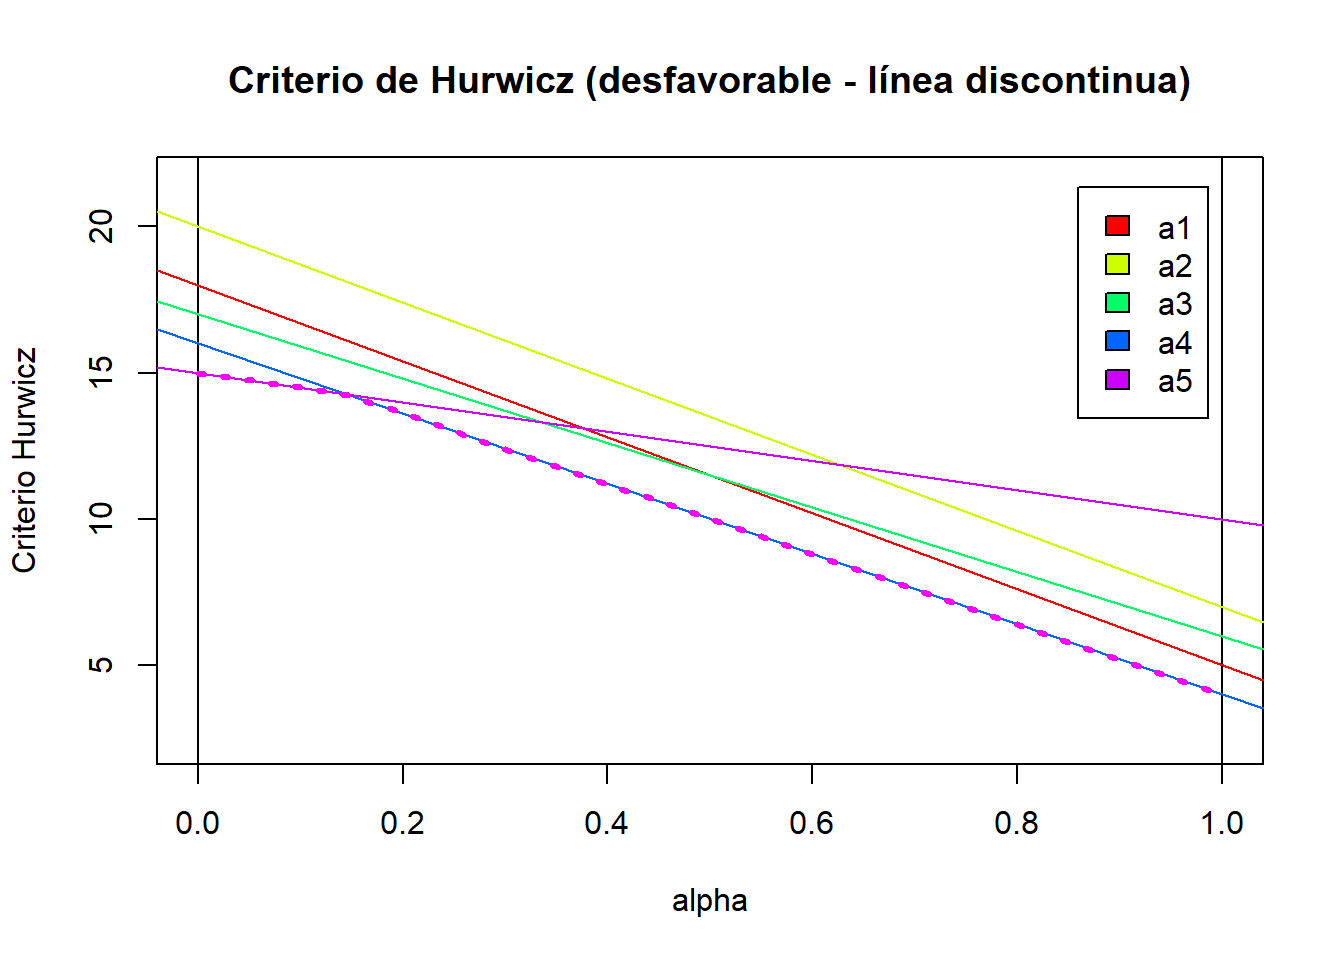
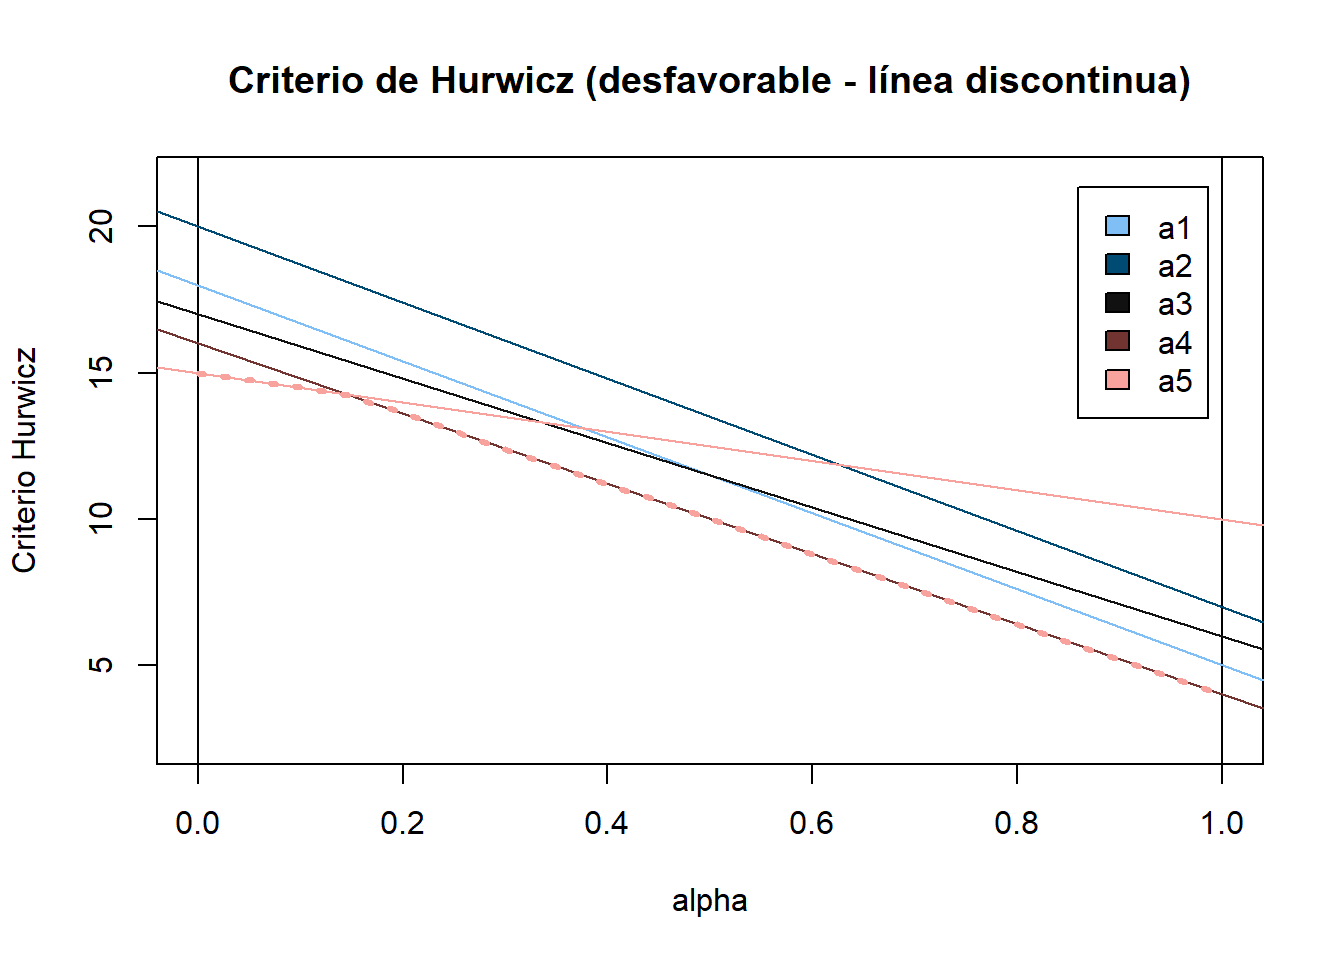
Funciones_incertidumbre modificadas (cambio colores)

diff --git a/Soluciones.html b/Soluciones.html
@@ -235,19 +235,19 @@ window.Quarto = {
 
     <script>
       // Create table-specific functions using external factory
-      const tableFns_jeejm5g07paqrnjsvyyp = TinyTable.createTableFunctions("tinytable_jeejm5g07paqrnjsvyyp");
+      const tableFns_b0fahpo1jddl932wqwfs = TinyTable.createTableFunctions("tinytable_b0fahpo1jddl932wqwfs");
       // tinytable span after
       window.addEventListener('load', function () {
           var cellsToStyle = [
             // tinytable style arrays after
-          { positions: [ { i: '11', j: 1 }, { i: '11', j: 2 }, { i: '11', j: 3 } ], css_id: 'tinytable_css_rqtm2xmzs659li9lv1eq',}, 
-          { positions: [ { i: '0', j: 1 }, { i: '0', j: 2 }, { i: '0', j: 3 } ], css_id: 'tinytable_css_6uclffkz9mma0tudcdrw',}, 
+          { positions: [ { i: '11', j: 1 }, { i: '11', j: 2 }, { i: '11', j: 3 } ], css_id: 'tinytable_css_im0e7gshdam5md5a4he9',}, 
+          { positions: [ { i: '0', j: 1 }, { i: '0', j: 2 }, { i: '0', j: 3 } ], css_id: 'tinytable_css_yg811hq9byoz92efyf0b',}, 
           ];
 
           // Loop over the arrays to style the cells
           cellsToStyle.forEach(function (group) {
               group.positions.forEach(function (cell) {
-                  tableFns_jeejm5g07paqrnjsvyyp.styleCell(cell.i, cell.j, group.css_id);
+                  tableFns_b0fahpo1jddl932wqwfs.styleCell(cell.i, cell.j, group.css_id);
               });
           });
       });
@@ -256,11 +256,11 @@ window.Quarto = {
     <link rel="stylesheet" href="https://cdn.jsdelivr.net/gh/vincentarelbundock/tinytable@main/inst/tinytable.css">
     <style>
     /* tinytable css entries after */
-    #tinytable_jeejm5g07paqrnjsvyyp td.tinytable_css_rqtm2xmzs659li9lv1eq, #tinytable_jeejm5g07paqrnjsvyyp th.tinytable_css_rqtm2xmzs659li9lv1eq {  position: relative; --border-bottom: 1; --border-left: 0; --border-right: 0; --border-top: 0; --line-color-bottom: black; --line-color-left: black; --line-color-right: black; --line-color-top: black; --line-width-bottom: 0.1em; --line-width-left: 0.1em; --line-width-right: 0.1em; --line-width-top: 0.1em; --trim-bottom-left: 0%; --trim-bottom-right: 0%; --trim-left-bottom: 0%; --trim-left-top: 0%; --trim-right-bottom: 0%; --trim-right-top: 0%; --trim-top-left: 0%; --trim-top-right: 0%;  }
-    #tinytable_jeejm5g07paqrnjsvyyp td.tinytable_css_6uclffkz9mma0tudcdrw, #tinytable_jeejm5g07paqrnjsvyyp th.tinytable_css_6uclffkz9mma0tudcdrw {  position: relative; --border-bottom: 1; --border-left: 0; --border-right: 0; --border-top: 1; --line-color-bottom: black; --line-color-left: black; --line-color-right: black; --line-color-top: black; --line-width-bottom: 0.05em; --line-width-left: 0.1em; --line-width-right: 0.1em; --line-width-top: 0.1em; --trim-bottom-left: 0%; --trim-bottom-right: 0%; --trim-left-bottom: 0%; --trim-left-top: 0%; --trim-right-bottom: 0%; --trim-right-top: 0%; --trim-top-left: 0%; --trim-top-right: 0%;  }
+    #tinytable_b0fahpo1jddl932wqwfs td.tinytable_css_im0e7gshdam5md5a4he9, #tinytable_b0fahpo1jddl932wqwfs th.tinytable_css_im0e7gshdam5md5a4he9 {  position: relative; --border-bottom: 1; --border-left: 0; --border-right: 0; --border-top: 0; --line-color-bottom: black; --line-color-left: black; --line-color-right: black; --line-color-top: black; --line-width-bottom: 0.1em; --line-width-left: 0.1em; --line-width-right: 0.1em; --line-width-top: 0.1em; --trim-bottom-left: 0%; --trim-bottom-right: 0%; --trim-left-bottom: 0%; --trim-left-top: 0%; --trim-right-bottom: 0%; --trim-right-top: 0%; --trim-top-left: 0%; --trim-top-right: 0%;  }
+    #tinytable_b0fahpo1jddl932wqwfs td.tinytable_css_yg811hq9byoz92efyf0b, #tinytable_b0fahpo1jddl932wqwfs th.tinytable_css_yg811hq9byoz92efyf0b {  position: relative; --border-bottom: 1; --border-left: 0; --border-right: 0; --border-top: 1; --line-color-bottom: black; --line-color-left: black; --line-color-right: black; --line-color-top: black; --line-width-bottom: 0.05em; --line-width-left: 0.1em; --line-width-right: 0.1em; --line-width-top: 0.1em; --trim-bottom-left: 0%; --trim-bottom-right: 0%; --trim-left-bottom: 0%; --trim-left-top: 0%; --trim-right-bottom: 0%; --trim-right-top: 0%; --trim-top-left: 0%; --trim-top-right: 0%;  }
     </style>
     <div class="container">
-      <table class="tinytable" id="tinytable_jeejm5g07paqrnjsvyyp" style="width: auto; margin-left: auto; margin-right: auto;" data-quarto-disable-processing="true">
+      <table class="tinytable" id="tinytable_b0fahpo1jddl932wqwfs" style="width: auto; margin-left: auto; margin-right: auto;" data-quarto-disable-processing="true">
         
         <thead>
               <tr>
@@ -397,19 +397,19 @@ window.Quarto = {
 
     <script>
       // Create table-specific functions using external factory
-      const tableFns_t2li2sjveucmvlr1nep9 = TinyTable.createTableFunctions("tinytable_t2li2sjveucmvlr1nep9");
+      const tableFns_c8rxcxm05tgjyam3l6cm = TinyTable.createTableFunctions("tinytable_c8rxcxm05tgjyam3l6cm");
       // tinytable span after
       window.addEventListener('load', function () {
           var cellsToStyle = [
             // tinytable style arrays after
-          { positions: [ { i: '6', j: 1 }, { i: '6', j: 2 } ], css_id: 'tinytable_css_u9f4cxh3qxp0u0hbgcvc',}, 
-          { positions: [ { i: '0', j: 1 }, { i: '0', j: 2 } ], css_id: 'tinytable_css_849i6bg1oty5j7hr3ajm',}, 
+          { positions: [ { i: '6', j: 1 }, { i: '6', j: 2 } ], css_id: 'tinytable_css_v1en0tt0165hsabp8j68',}, 
+          { positions: [ { i: '0', j: 1 }, { i: '0', j: 2 } ], css_id: 'tinytable_css_v264za5cgkzozuqn24sx',}, 
           ];
 
           // Loop over the arrays to style the cells
           cellsToStyle.forEach(function (group) {
               group.positions.forEach(function (cell) {
-                  tableFns_t2li2sjveucmvlr1nep9.styleCell(cell.i, cell.j, group.css_id);
+                  tableFns_c8rxcxm05tgjyam3l6cm.styleCell(cell.i, cell.j, group.css_id);
               });
           });
       });
@@ -418,11 +418,11 @@ window.Quarto = {
     <link rel="stylesheet" href="https://cdn.jsdelivr.net/gh/vincentarelbundock/tinytable@main/inst/tinytable.css">
     <style>
     /* tinytable css entries after */
-    #tinytable_t2li2sjveucmvlr1nep9 td.tinytable_css_u9f4cxh3qxp0u0hbgcvc, #tinytable_t2li2sjveucmvlr1nep9 th.tinytable_css_u9f4cxh3qxp0u0hbgcvc {  position: relative; --border-bottom: 1; --border-left: 0; --border-right: 0; --border-top: 0; --line-color-bottom: black; --line-color-left: black; --line-color-right: black; --line-color-top: black; --line-width-bottom: 0.1em; --line-width-left: 0.1em; --line-width-right: 0.1em; --line-width-top: 0.1em; --trim-bottom-left: 0%; --trim-bottom-right: 0%; --trim-left-bottom: 0%; --trim-left-top: 0%; --trim-right-bottom: 0%; --trim-right-top: 0%; --trim-top-left: 0%; --trim-top-right: 0%;  }
-    #tinytable_t2li2sjveucmvlr1nep9 td.tinytable_css_849i6bg1oty5j7hr3ajm, #tinytable_t2li2sjveucmvlr1nep9 th.tinytable_css_849i6bg1oty5j7hr3ajm {  position: relative; --border-bottom: 1; --border-left: 0; --border-right: 0; --border-top: 1; --line-color-bottom: black; --line-color-left: black; --line-color-right: black; --line-color-top: black; --line-width-bottom: 0.05em; --line-width-left: 0.1em; --line-width-right: 0.1em; --line-width-top: 0.1em; --trim-bottom-left: 0%; --trim-bottom-right: 0%; --trim-left-bottom: 0%; --trim-left-top: 0%; --trim-right-bottom: 0%; --trim-right-top: 0%; --trim-top-left: 0%; --trim-top-right: 0%;  }
+    #tinytable_c8rxcxm05tgjyam3l6cm td.tinytable_css_v1en0tt0165hsabp8j68, #tinytable_c8rxcxm05tgjyam3l6cm th.tinytable_css_v1en0tt0165hsabp8j68 {  position: relative; --border-bottom: 1; --border-left: 0; --border-right: 0; --border-top: 0; --line-color-bottom: black; --line-color-left: black; --line-color-right: black; --line-color-top: black; --line-width-bottom: 0.1em; --line-width-left: 0.1em; --line-width-right: 0.1em; --line-width-top: 0.1em; --trim-bottom-left: 0%; --trim-bottom-right: 0%; --trim-left-bottom: 0%; --trim-left-top: 0%; --trim-right-bottom: 0%; --trim-right-top: 0%; --trim-top-left: 0%; --trim-top-right: 0%;  }
+    #tinytable_c8rxcxm05tgjyam3l6cm td.tinytable_css_v264za5cgkzozuqn24sx, #tinytable_c8rxcxm05tgjyam3l6cm th.tinytable_css_v264za5cgkzozuqn24sx {  position: relative; --border-bottom: 1; --border-left: 0; --border-right: 0; --border-top: 1; --line-color-bottom: black; --line-color-left: black; --line-color-right: black; --line-color-top: black; --line-width-bottom: 0.05em; --line-width-left: 0.1em; --line-width-right: 0.1em; --line-width-top: 0.1em; --trim-bottom-left: 0%; --trim-bottom-right: 0%; --trim-left-bottom: 0%; --trim-left-top: 0%; --trim-right-bottom: 0%; --trim-right-top: 0%; --trim-top-left: 0%; --trim-top-right: 0%;  }
     </style>
     <div class="container">
-      <table class="tinytable" id="tinytable_t2li2sjveucmvlr1nep9" style="width: auto; margin-left: auto; margin-right: auto;" data-quarto-disable-processing="true">
+      <table class="tinytable" id="tinytable_c8rxcxm05tgjyam3l6cm" style="width: auto; margin-left: auto; margin-right: auto;" data-quarto-disable-processing="true">
         
         <thead>
               <tr>
@@ -503,19 +503,19 @@ window.Quarto = {
 
     <script>
       // Create table-specific functions using external factory
-      const tableFns_yn83ekl04ouhkextxpum = TinyTable.createTableFunctions("tinytable_yn83ekl04ouhkextxpum");
+      const tableFns_35wlp25r8jjlati748fz = TinyTable.createTableFunctions("tinytable_35wlp25r8jjlati748fz");
       // tinytable span after
       window.addEventListener('load', function () {
           var cellsToStyle = [
             // tinytable style arrays after
-          { positions: [ { i: '11', j: 1 }, { i: '11', j: 2 }, { i: '11', j: 3 } ], css_id: 'tinytable_css_hptwo9bb7gv2vfsqjn4e',}, 
-          { positions: [ { i: '0', j: 1 }, { i: '0', j: 2 }, { i: '0', j: 3 } ], css_id: 'tinytable_css_n14vprzjbud3icul1rsl',}, 
+          { positions: [ { i: '11', j: 1 }, { i: '11', j: 2 }, { i: '11', j: 3 } ], css_id: 'tinytable_css_jc4ezenx68gcz6qxlp9u',}, 
+          { positions: [ { i: '0', j: 1 }, { i: '0', j: 2 }, { i: '0', j: 3 } ], css_id: 'tinytable_css_0792yzdcjajy88t3om6q',}, 
           ];
 
           // Loop over the arrays to style the cells
           cellsToStyle.forEach(function (group) {
               group.positions.forEach(function (cell) {
-                  tableFns_yn83ekl04ouhkextxpum.styleCell(cell.i, cell.j, group.css_id);
+                  tableFns_35wlp25r8jjlati748fz.styleCell(cell.i, cell.j, group.css_id);
               });
           });
       });
@@ -524,11 +524,11 @@ window.Quarto = {
     <link rel="stylesheet" href="https://cdn.jsdelivr.net/gh/vincentarelbundock/tinytable@main/inst/tinytable.css">
     <style>
     /* tinytable css entries after */
-    #tinytable_yn83ekl04ouhkextxpum td.tinytable_css_hptwo9bb7gv2vfsqjn4e, #tinytable_yn83ekl04ouhkextxpum th.tinytable_css_hptwo9bb7gv2vfsqjn4e {  position: relative; --border-bottom: 1; --border-left: 0; --border-right: 0; --border-top: 0; --line-color-bottom: black; --line-color-left: black; --line-color-right: black; --line-color-top: black; --line-width-bottom: 0.1em; --line-width-left: 0.1em; --line-width-right: 0.1em; --line-width-top: 0.1em; --trim-bottom-left: 0%; --trim-bottom-right: 0%; --trim-left-bottom: 0%; --trim-left-top: 0%; --trim-right-bottom: 0%; --trim-right-top: 0%; --trim-top-left: 0%; --trim-top-right: 0%;  }
-    #tinytable_yn83ekl04ouhkextxpum td.tinytable_css_n14vprzjbud3icul1rsl, #tinytable_yn83ekl04ouhkextxpum th.tinytable_css_n14vprzjbud3icul1rsl {  position: relative; --border-bottom: 1; --border-left: 0; --border-right: 0; --border-top: 1; --line-color-bottom: black; --line-color-left: black; --line-color-right: black; --line-color-top: black; --line-width-bottom: 0.05em; --line-width-left: 0.1em; --line-width-right: 0.1em; --line-width-top: 0.1em; --trim-bottom-left: 0%; --trim-bottom-right: 0%; --trim-left-bottom: 0%; --trim-left-top: 0%; --trim-right-bottom: 0%; --trim-right-top: 0%; --trim-top-left: 0%; --trim-top-right: 0%;  }
+    #tinytable_35wlp25r8jjlati748fz td.tinytable_css_jc4ezenx68gcz6qxlp9u, #tinytable_35wlp25r8jjlati748fz th.tinytable_css_jc4ezenx68gcz6qxlp9u {  position: relative; --border-bottom: 1; --border-left: 0; --border-right: 0; --border-top: 0; --line-color-bottom: black; --line-color-left: black; --line-color-right: black; --line-color-top: black; --line-width-bottom: 0.1em; --line-width-left: 0.1em; --line-width-right: 0.1em; --line-width-top: 0.1em; --trim-bottom-left: 0%; --trim-bottom-right: 0%; --trim-left-bottom: 0%; --trim-left-top: 0%; --trim-right-bottom: 0%; --trim-right-top: 0%; --trim-top-left: 0%; --trim-top-right: 0%;  }
+    #tinytable_35wlp25r8jjlati748fz td.tinytable_css_0792yzdcjajy88t3om6q, #tinytable_35wlp25r8jjlati748fz th.tinytable_css_0792yzdcjajy88t3om6q {  position: relative; --border-bottom: 1; --border-left: 0; --border-right: 0; --border-top: 1; --line-color-bottom: black; --line-color-left: black; --line-color-right: black; --line-color-top: black; --line-width-bottom: 0.05em; --line-width-left: 0.1em; --line-width-right: 0.1em; --line-width-top: 0.1em; --trim-bottom-left: 0%; --trim-bottom-right: 0%; --trim-left-bottom: 0%; --trim-left-top: 0%; --trim-right-bottom: 0%; --trim-right-top: 0%; --trim-top-left: 0%; --trim-top-right: 0%;  }
     </style>
     <div class="container">
-      <table class="tinytable" id="tinytable_yn83ekl04ouhkextxpum" style="width: auto; margin-left: auto; margin-right: auto;" data-quarto-disable-processing="true">
+      <table class="tinytable" id="tinytable_35wlp25r8jjlati748fz" style="width: auto; margin-left: auto; margin-right: auto;" data-quarto-disable-processing="true">
         
         <thead>
               <tr>
@@ -668,19 +668,19 @@ window.Quarto = {
 
     <script>
       // Create table-specific functions using external factory
-      const tableFns_js28v2zsr5lmyi63dyk7 = TinyTable.createTableFunctions("tinytable_js28v2zsr5lmyi63dyk7");
+      const tableFns_6icvj0vqoe398mqjj6zb = TinyTable.createTableFunctions("tinytable_6icvj0vqoe398mqjj6zb");
       // tinytable span after
       window.addEventListener('load', function () {
           var cellsToStyle = [
             // tinytable style arrays after
-          { positions: [ { i: '6', j: 1 }, { i: '6', j: 2 } ], css_id: 'tinytable_css_q34m1wcxtuc6n56166oe',}, 
-          { positions: [ { i: '0', j: 1 }, { i: '0', j: 2 } ], css_id: 'tinytable_css_s2w7zjvm0b416lv9nzr3',}, 
+          { positions: [ { i: '6', j: 1 }, { i: '6', j: 2 } ], css_id: 'tinytable_css_xom9aud4ver2nqkbemgq',}, 
+          { positions: [ { i: '0', j: 1 }, { i: '0', j: 2 } ], css_id: 'tinytable_css_l36m4qpew2t6o6rn619i',}, 
           ];
 
           // Loop over the arrays to style the cells
           cellsToStyle.forEach(function (group) {
               group.positions.forEach(function (cell) {
-                  tableFns_js28v2zsr5lmyi63dyk7.styleCell(cell.i, cell.j, group.css_id);
+                  tableFns_6icvj0vqoe398mqjj6zb.styleCell(cell.i, cell.j, group.css_id);
               });
           });
       });
@@ -689,11 +689,11 @@ window.Quarto = {
     <link rel="stylesheet" href="https://cdn.jsdelivr.net/gh/vincentarelbundock/tinytable@main/inst/tinytable.css">
     <style>
     /* tinytable css entries after */
-    #tinytable_js28v2zsr5lmyi63dyk7 td.tinytable_css_q34m1wcxtuc6n56166oe, #tinytable_js28v2zsr5lmyi63dyk7 th.tinytable_css_q34m1wcxtuc6n56166oe {  position: relative; --border-bottom: 1; --border-left: 0; --border-right: 0; --border-top: 0; --line-color-bottom: black; --line-color-left: black; --line-color-right: black; --line-color-top: black; --line-width-bottom: 0.1em; --line-width-left: 0.1em; --line-width-right: 0.1em; --line-width-top: 0.1em; --trim-bottom-left: 0%; --trim-bottom-right: 0%; --trim-left-bottom: 0%; --trim-left-top: 0%; --trim-right-bottom: 0%; --trim-right-top: 0%; --trim-top-left: 0%; --trim-top-right: 0%;  }
-    #tinytable_js28v2zsr5lmyi63dyk7 td.tinytable_css_s2w7zjvm0b416lv9nzr3, #tinytable_js28v2zsr5lmyi63dyk7 th.tinytable_css_s2w7zjvm0b416lv9nzr3 {  position: relative; --border-bottom: 1; --border-left: 0; --border-right: 0; --border-top: 1; --line-color-bottom: black; --line-color-left: black; --line-color-right: black; --line-color-top: black; --line-width-bottom: 0.05em; --line-width-left: 0.1em; --line-width-right: 0.1em; --line-width-top: 0.1em; --trim-bottom-left: 0%; --trim-bottom-right: 0%; --trim-left-bottom: 0%; --trim-left-top: 0%; --trim-right-bottom: 0%; --trim-right-top: 0%; --trim-top-left: 0%; --trim-top-right: 0%;  }
+    #tinytable_6icvj0vqoe398mqjj6zb td.tinytable_css_xom9aud4ver2nqkbemgq, #tinytable_6icvj0vqoe398mqjj6zb th.tinytable_css_xom9aud4ver2nqkbemgq {  position: relative; --border-bottom: 1; --border-left: 0; --border-right: 0; --border-top: 0; --line-color-bottom: black; --line-color-left: black; --line-color-right: black; --line-color-top: black; --line-width-bottom: 0.1em; --line-width-left: 0.1em; --line-width-right: 0.1em; --line-width-top: 0.1em; --trim-bottom-left: 0%; --trim-bottom-right: 0%; --trim-left-bottom: 0%; --trim-left-top: 0%; --trim-right-bottom: 0%; --trim-right-top: 0%; --trim-top-left: 0%; --trim-top-right: 0%;  }
+    #tinytable_6icvj0vqoe398mqjj6zb td.tinytable_css_l36m4qpew2t6o6rn619i, #tinytable_6icvj0vqoe398mqjj6zb th.tinytable_css_l36m4qpew2t6o6rn619i {  position: relative; --border-bottom: 1; --border-left: 0; --border-right: 0; --border-top: 1; --line-color-bottom: black; --line-color-left: black; --line-color-right: black; --line-color-top: black; --line-width-bottom: 0.05em; --line-width-left: 0.1em; --line-width-right: 0.1em; --line-width-top: 0.1em; --trim-bottom-left: 0%; --trim-bottom-right: 0%; --trim-left-bottom: 0%; --trim-left-top: 0%; --trim-right-bottom: 0%; --trim-right-top: 0%; --trim-top-left: 0%; --trim-top-right: 0%;  }
     </style>
     <div class="container">
-      <table class="tinytable" id="tinytable_js28v2zsr5lmyi63dyk7" style="width: auto; margin-left: auto; margin-right: auto;" data-quarto-disable-processing="true">
+      <table class="tinytable" id="tinytable_6icvj0vqoe398mqjj6zb" style="width: auto; margin-left: auto; margin-right: auto;" data-quarto-disable-processing="true">
         
         <thead>
               <tr>
@@ -733,7 +733,7 @@ window.Quarto = {
 <!-- hack to avoid NA insertion in last line -->
 </div>
 </div>
-<p>Vemos que las alternativas óptimas son diferentes según el criterio utilizado, siendo la alternativa <span class="math inline">\(a_2\)</span> la que más veces aparece como óptima (4 veces). Ya alternativa <span class="math inline">\(a_4\)</span> aparece una sola vez como óptima para el criterio pesimista y es la mejor alternativa también para el criterio de Hurwicz con valores de <span class="math inline">\(\alpha\)</span> menores que ____ .</p>
+<p>Vemos que las alternativas óptimas son diferentes según el criterio utilizado, siendo la alternativa <span class="math inline">\(a_1\)</span> la que más veces aparece como óptima (3 veces). La alternativa <span class="math inline">\(a_4\)</span> aparece en dos ocasiones como óptima, por último para el criterio pesimista la mejor alternativa es <span class="math inline">\(a_5\)</span> y es la mejor alternativa también para el criterio de Hurwicz con valores de <span class="math inline">\(\alpha\)</span> menores que ____ .</p>
 </section>
 </section>
 </section>
